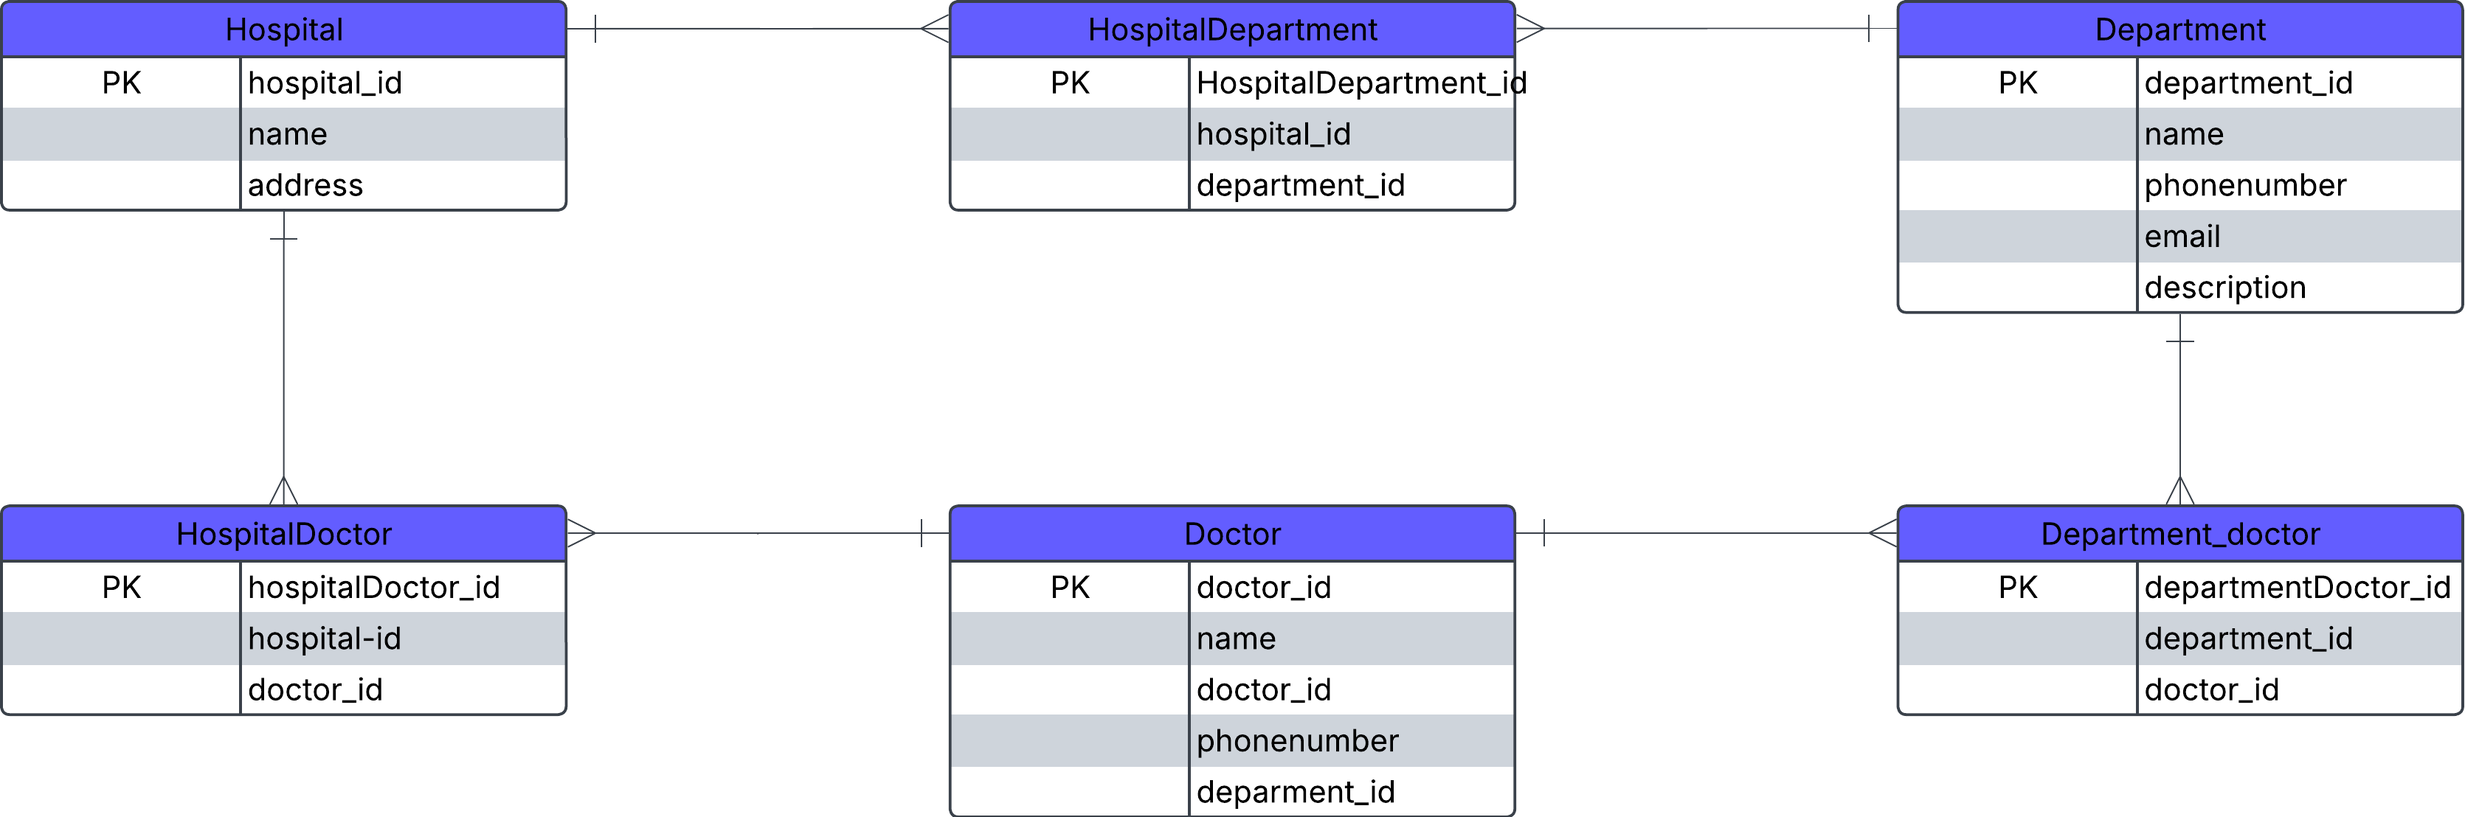
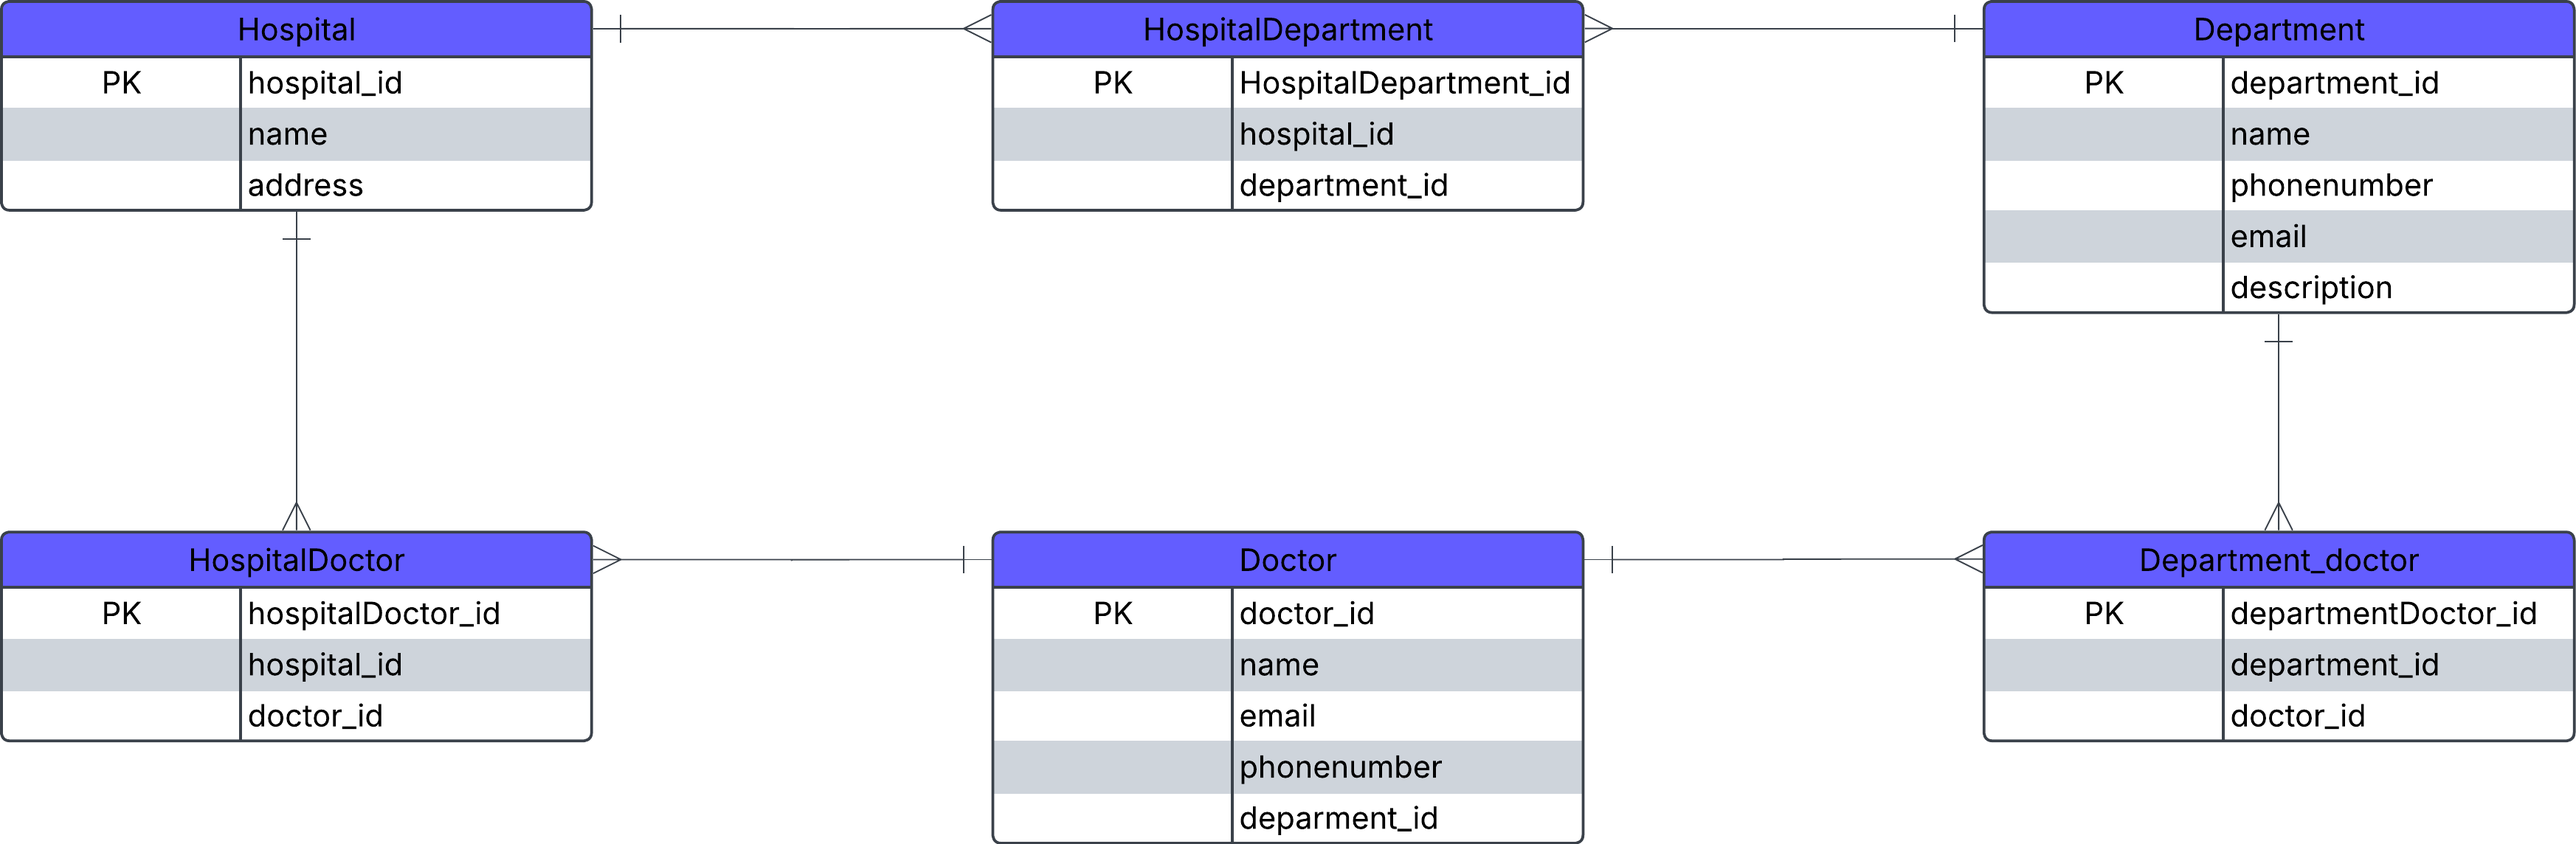
update exercise_1 documentation: add detailed ERD and table relationships for hospital data model

diff --git a/exercises/exercise_1.md b/exercises/exercise_1.md
@@ -12,6 +12,30 @@ d) Create a physical data model using dbdiagram
 
 e) Create a few tables manually, insert given data plus some more, and try to manually link foreign keys to primary keys. Can you satisfy that a doctor can work at several departments and several hospitals?
 
-a) <br> <img src = ../assets/logical_hospital_ERD.png> 
+a) <br> <img src = ../assets/logical_hospital_ERD.png>
 
 assets\logical_hospital_ERD.png
+
+b)
+
+- Table Hospital PK = hospital_id <br>
+- Table hospitalDepartment PK = hospitalDepartment_id <br>
+- Table Department PK = department_id<br>
+- Table Department_doctor PK = departmentDoctor_id<br>
+- Table Doctor PK = doctor_id <br>
+- Table Hospital_doctor PK = hospitalDoctor_id <br>
+- hospital_id and doctor_id = FK in hospitalDoctor <br>
+- hospital_id and department_id = FK in HospitalDepartment<br>
+- department_id and doctor_id = FK in Department_doctor<br>
+
+c) <br>
+
+- Hospital parent -> HospitalDepartment child <br>
+- Department parent -> HospitalDepartment- child<br>
+- Doctor parent -> Departmentdoctor Child<br>
+- Doctor parent -> HospitalDoctor<br>
+- Hospital parent -> hospitaldoctor child<br>
+-   Department parent -> Departmentdoctor child <br>
+
+d) <br>
+<img src = ../assets/hospital_dbdiagram.png>
